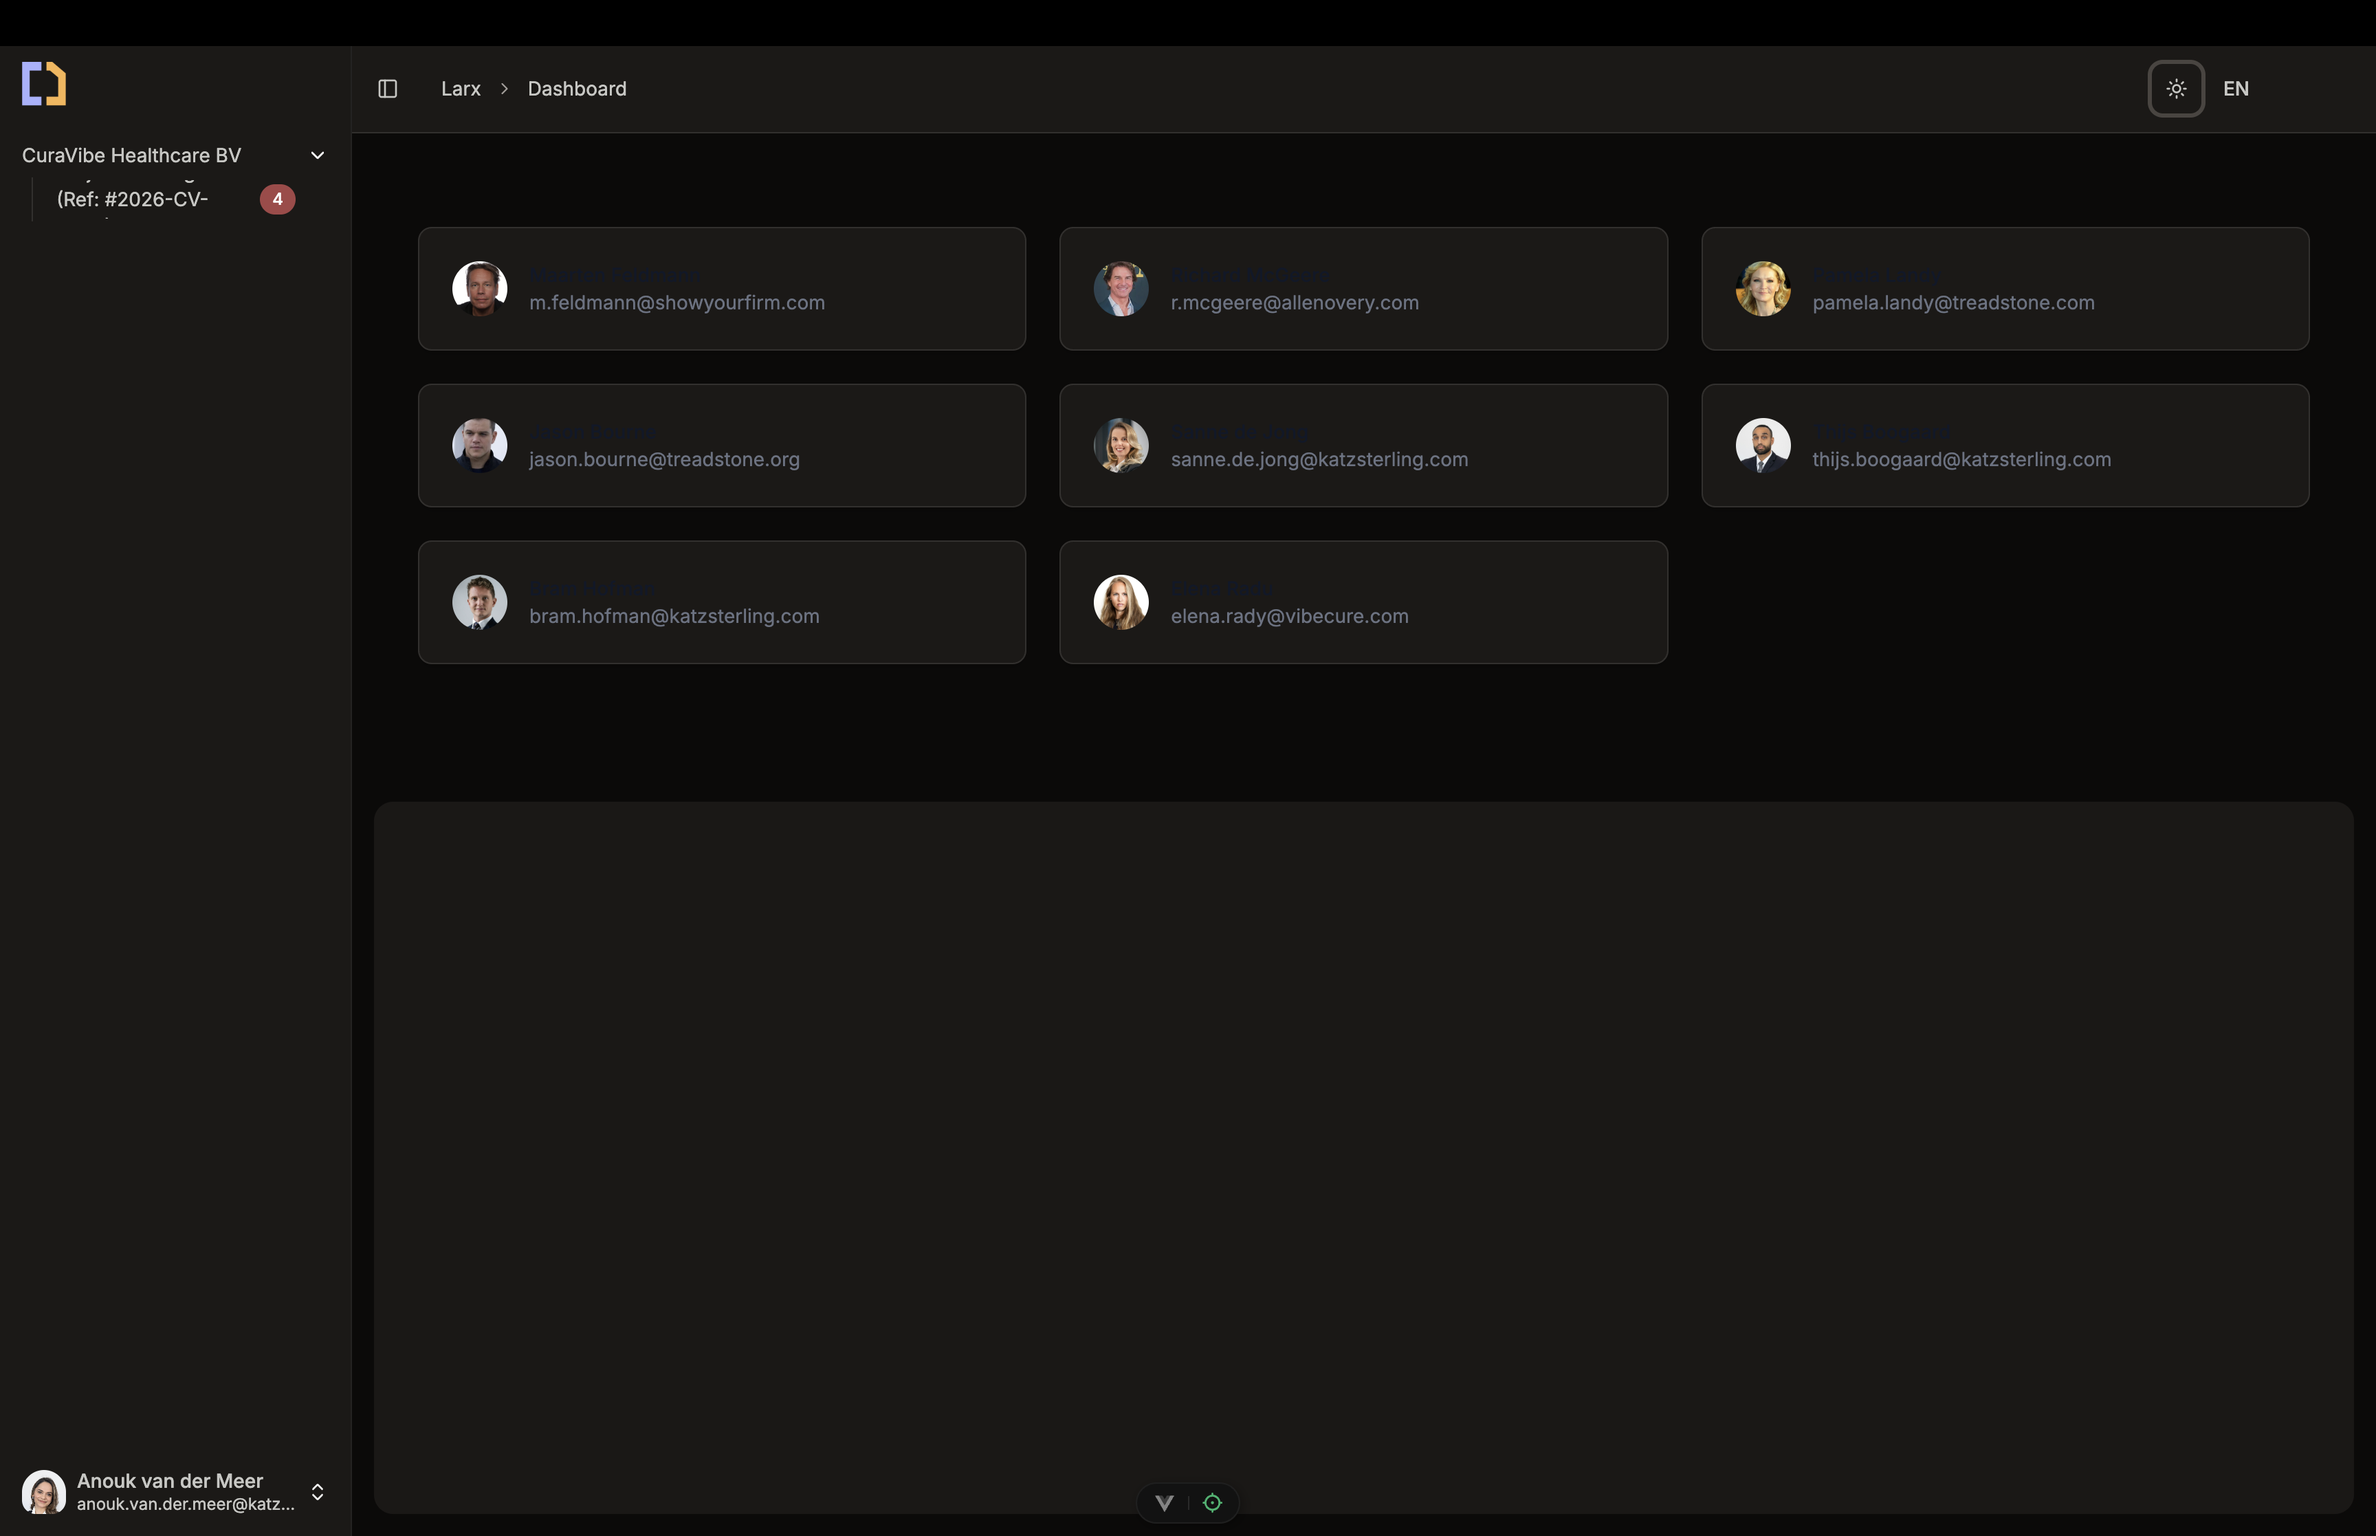
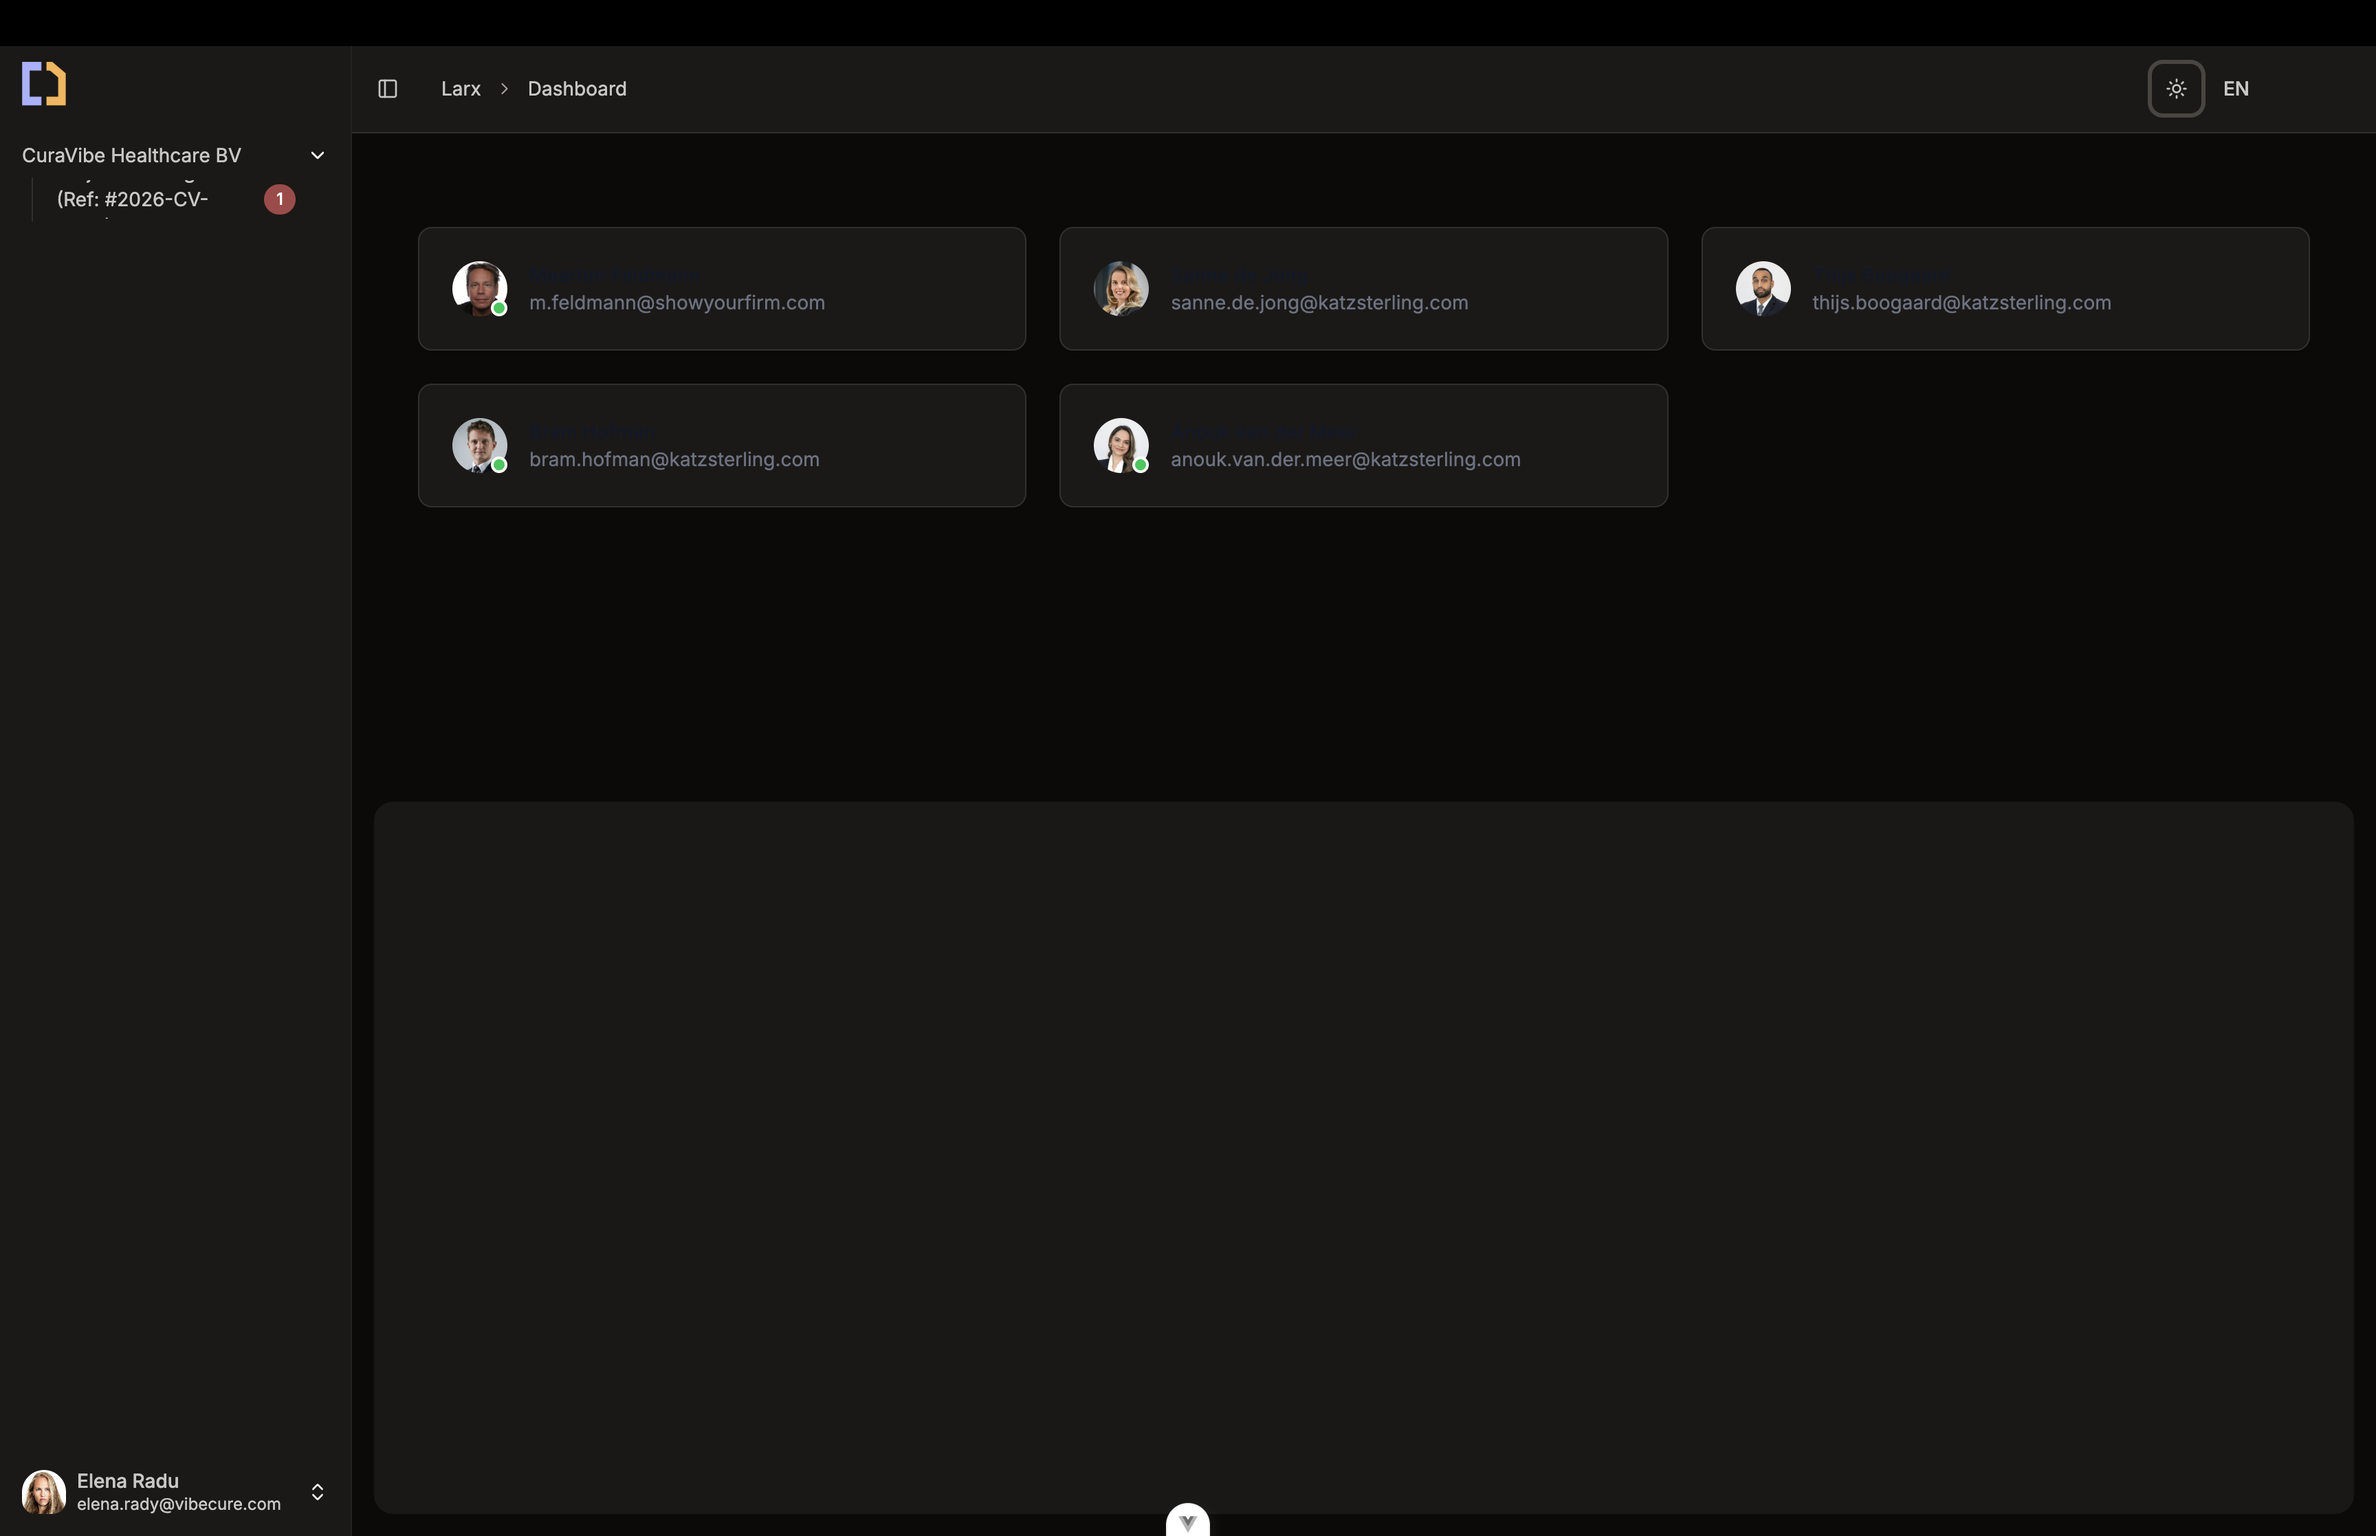
update image modifications

diff --git a/docs/.vitepress/theme/components/Pages/FileSharingPortal.vue b/docs/.vitepress/theme/components/Pages/FileSharingPortal.vue
@@ -25,7 +25,7 @@ const hero = computed(() => {
     : '/images/ClientPortal/Light/hero.png'
     
   return {  backgroundImage: `url(${path})`, 
-            backgroundSize: `95%`,
+            backgroundSize: `cover`,
             backgroundPosition: `50% 60%`,
 
 
